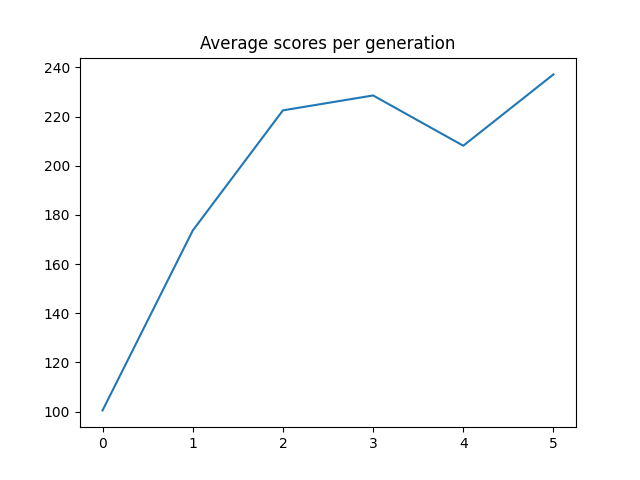
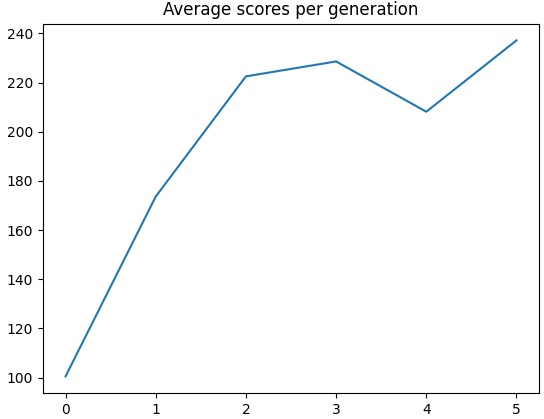
Created a few more graphs to use in report

diff --git a/Project/src/kautenja/jordi/jordi_modules/geneticalgorithm.py b/Project/src/kautenja/jordi/jordi_modules/geneticalgorithm.py
@@ -83,7 +83,7 @@ class GenePool:
     There is also a certain chance that a mutation will take place, meaning that a new player
     gets a random weight, instead of one inherited from the preivous generation.
     """
-    def __init__(self, cores=4, population=16, mutateChance=0.05, games=3, moves=250, replacePercent=0.7, debug=False):
+    def __init__(self, cores=4, population=12, mutateChance=0.05, games=10, moves=50, replacePercent=0.7, debug=False):
         self.population = population
         self.mutateChance = mutateChance
         self.maxGames = games
@@ -98,7 +98,7 @@ class GenePool:
         for _ in range(self.population):
             players.append(self._random_agent())
 
-        print("Training Generation #1")
+        print("Training Generation #0")
         players = self._train_generation(players)
 
         average_scores = [sum([player.highscore for player in players]) / len(players)]
@@ -109,7 +109,7 @@ class GenePool:
         print(f"Initial avg line: {average_scores[0]} | min({players[0].highscore}) | max ({players[-1].highscore})"
               f"\nWeights:{average_weights[0]}.")
 
-        for i_gen in range(2, generations + 2):
+        for i_gen in range(1, generations + 1):
             print("\nTraining Generation #{}".format(i_gen))
             new_players = players[
                           int(len(players) * self.replacePercent):]  # keep the best replacePercent players
@@ -140,15 +140,16 @@ class GenePool:
                                                                                           min=players[0].highscore,
                                                                                           max=players[-1].highscore,
                                                                                           weights=gen_avg_weights))
+            plt.plot(average_scores)
+            plt.xlabel("Generation")
+            plt.ylabel("Lines cleared")
+            plt.title("Average score per generation")
+            plt.show()
 
         if self.debug:
             print("DEBUG: Finalist players:")
             for player in players:
                 print(player.highscore, ":", player.get_weights())
-
-        plt.plot(average_scores)
-        plt.title("Average scores per generation")
-        plt.show()
 
         return players[-1]
 

diff --git a/Project/src/kautenja/jordi/gen_train.py b/Project/src/kautenja/jordi/gen_train.py
@@ -17,10 +17,10 @@ from jordi_modules.geneticalgorithm import GenePool, GeneticAgent
 
 def main():
     gene_pool = GenePool()
-    agent = gene_pool.train(generations=10)
+    agent = gene_pool.train(generations=20)
 
     # agent = GeneticAgent()  # random weights
-    # agent = GeneticAgent(0.6837451965245205, 0.9799808062328352, 0.1363458051326737)  # weights from train
+    # agent = GeneticAgent(0.9521941443319699, 0.8479778551751184, 0.3053698551679609)  # weights from train
 
     env = gym_tetris.make('TetrisA-v1')
     env = JoypadSpace(env, SIMPLE_MOVEMENT)
